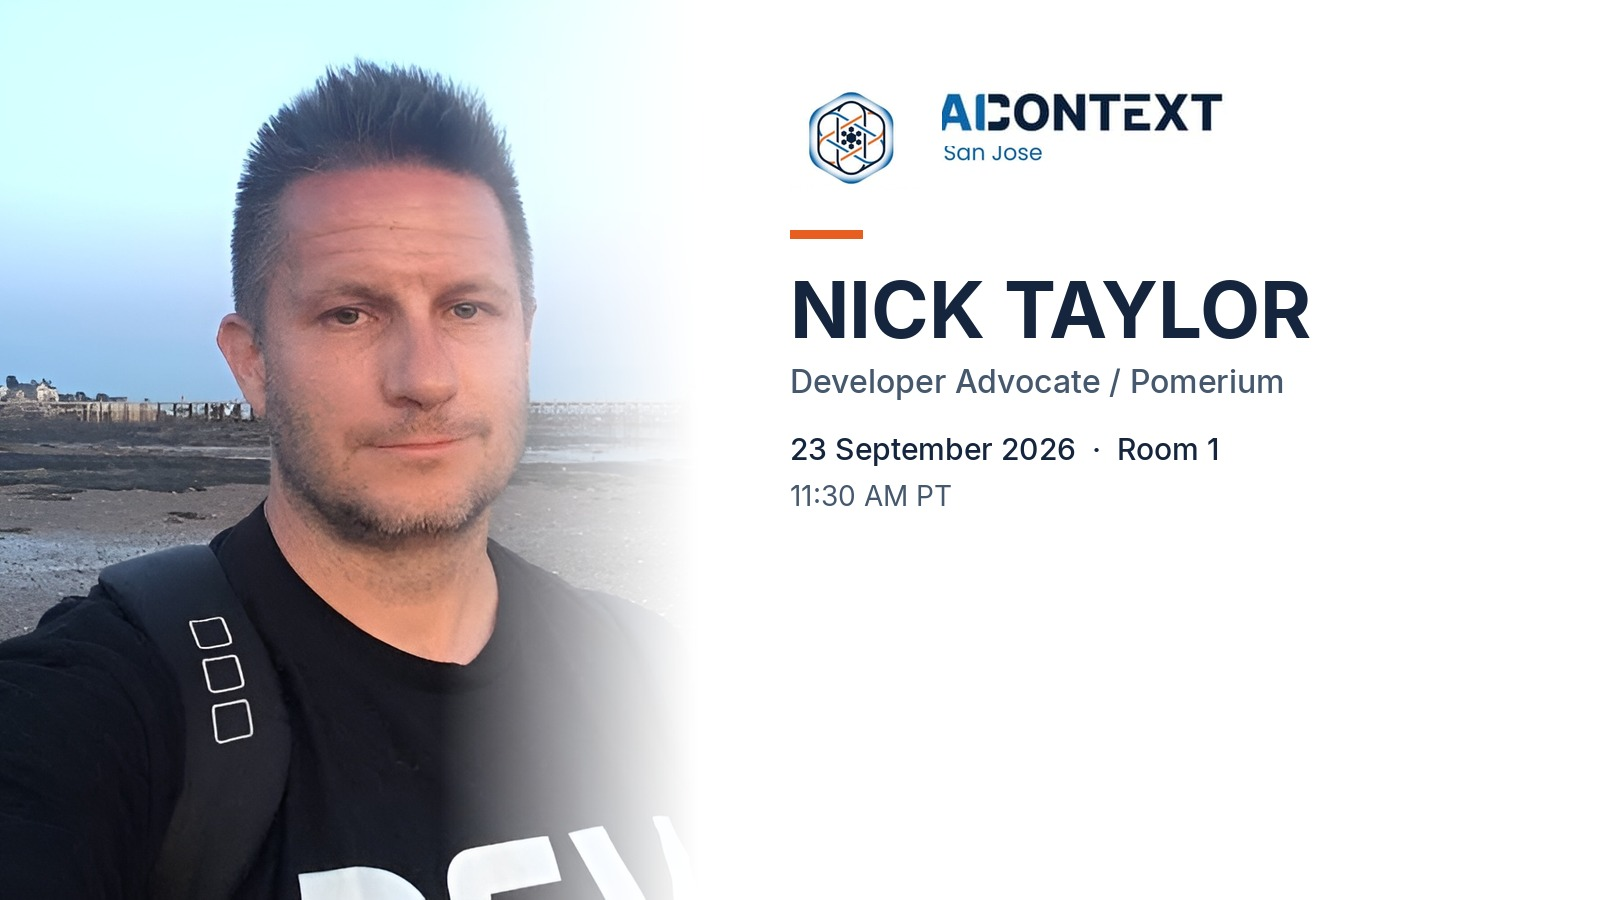
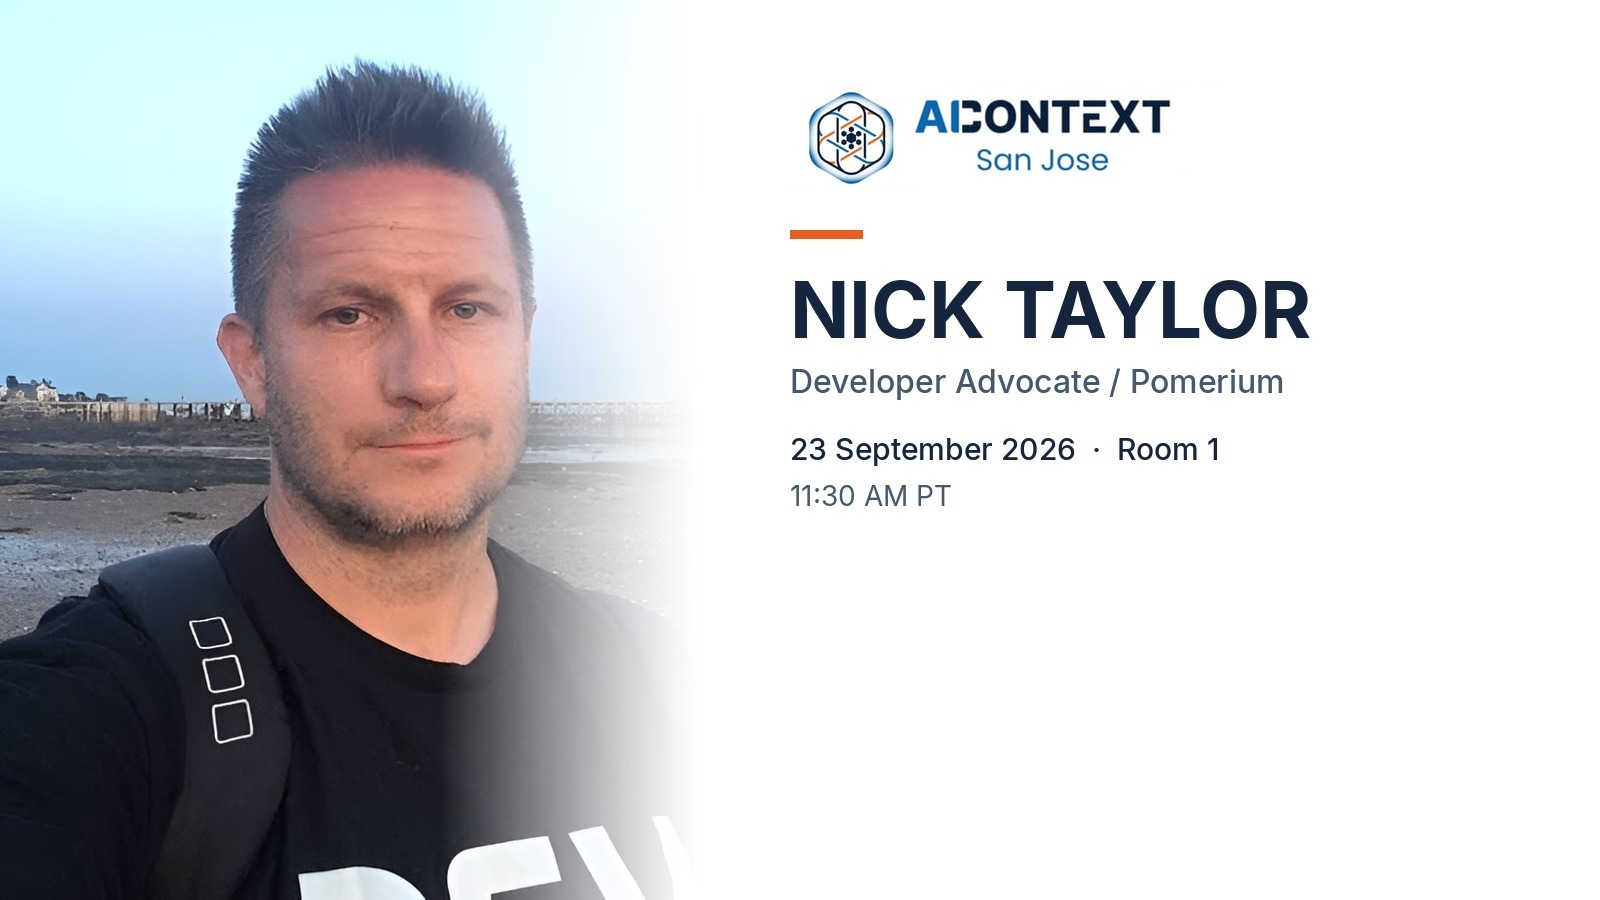
fix: use the 16:9 talk card as the thumbnail
Point cover_image at the full landscape artwork so talk cards
scale the same image instead of a separate 320x180 JPEG.

Changed region(s): [[0.5625, 0.0933, 0.7812, 0.1867]]

diff --git a/src/content/talks/share-work-not-access-control-identity-for-multiplayer-agents-ai-context-san-jose-2026.md b/src/content/talks/share-work-not-access-control-identity-for-multiplayer-agents-ai-context-san-jose-2026.md
@@ -3,7 +3,7 @@ title: "Share Work, Not Access: Control & Identity for Multiplayer Agents"
 date: 2026-09-23T11:30:00-07:00
 endDate: 2026-09-23T11:55:00-07:00
 upcoming: true
-cover_image: /assets/talks/ai-context-san-jose-2026-thumb.jpg
+cover_image: /assets/talks/ai-context-san-jose-2026-cover.jpg
 cover_image_large: /assets/talks/ai-context-san-jose-2026-cover.jpg
 venue:
   name: "AI Context San Jose"
